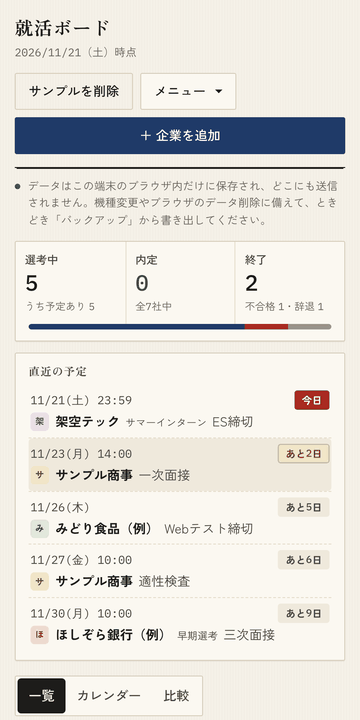
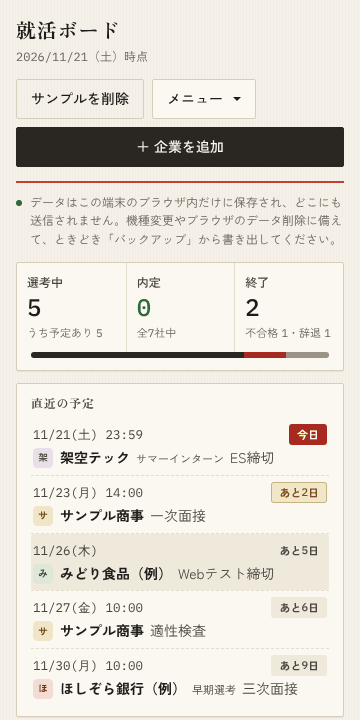
和風と洋風の見分けがつくように：和風は墨色のボタンと朱の線、洋風はえんじ色に

diff --git a/themes.css b/themes.css
@@ -33,7 +33,7 @@
 
 [data-theme-name="wa"]{
   --bg:#f5f1e8; --surface:#fbf8f1; --surface-2:#efe9dc; --surface-3:#e6dfcf; --ink:#1d1c1a; --ink-2:#4a463f;
-  --ink-3:#68625a; --line:#d6cdbb; --rule:#e5ddcc; --accent:#1f3a68; --accent-ink:#ffffff; --accent-soft:#dde3ee;
+  --ink-3:#68625a; --line:#d6cdbb; --rule:#e5ddcc; --accent:#2a2622; --accent-ink:#fbf8f1; --accent-soft:#e9e2d4;
   --danger:#a8291f; --danger-soft:#f5ddd7; --warn:#765400; --warn-soft:#f1e6c8; --ok:#2f6b3a; --ok-soft:#dce9d9;
   --muted:#9a9386; --muted-soft:#ece6da; --chip:#f3dcd3; --chip-ink:#862819; --focus:#c4402f; --shadow:0 1px 0 rgba(60,50,30,.06);
   --overlay:rgba(29,28,26,.5); --st-interest:#837d71; --st-entry:#3b5a8c; --st-es:#5b4f8a; --st-test:#2f6f6a; --st-gd:#8f630f;
@@ -58,15 +58,15 @@
   }
 }
 [data-theme-name="wa"] body{background-image:linear-gradient(90deg, rgba(120,100,60,.025) 1px, transparent 1px); background-size:3px 3px}
-[data-theme-name="wa"] .top{border-bottom-width:1px; box-shadow:0 3px 0 -2px var(--ink)}
+[data-theme-name="wa"] .top{border-bottom:2px solid var(--focus)}
 
 [data-theme-name="yo"]{
   --bg:#f6f1e4; --surface:#fffcf4; --surface-2:#f0e9d8; --surface-3:#e7dec8; --ink:#1b2130; --ink-2:#464b58;
-  --ink-3:#65676f; --line:#d8ceb6; --rule:#e7dfcb; --accent:#1d2f5e; --accent-ink:#ffffff; --accent-soft:#dde2ee;
-  --danger:#8c1d2c; --danger-soft:#f2dde0; --warn:#735510; --warn-soft:#f0e5c6; --ok:#2e5e3e; --ok-soft:#dbe7dc;
-  --muted:#9b9585; --muted-soft:#ede6d6; --chip:#efe0b8; --chip-ink:#634a10; --focus:#1d2f5e; --shadow:0 1px 0 rgba(40,30,10,.05), 0 2px 6px rgba(40,30,10,.06);
+  --ink-3:#65676f; --line:#d8ceb6; --rule:#e7dfcb; --accent:#7a1f33; --accent-ink:#fffcf4; --accent-soft:#f1dde2;
+  --danger:#b3261e; --danger-soft:#f6dcd8; --warn:#735510; --warn-soft:#f0e5c6; --ok:#2e5e3e; --ok-soft:#dbe7dc;
+  --muted:#9b9585; --muted-soft:#ede6d6; --chip:#efe0b8; --chip-ink:#634a10; --focus:#7a1f33; --shadow:0 1px 0 rgba(40,30,10,.05), 0 2px 6px rgba(40,30,10,.06);
   --overlay:rgba(27,33,48,.5); --st-interest:#807a6d; --st-entry:#2c4a86; --st-es:#5a4b86; --st-test:#2f6a6a; --st-gd:#8c6a12;
-  --st-interview2:#a04f27; --st-final:#6b2f55; --st-offer:#2e5e3e; --st-rejected:#8c1d2c; --st-declined:#807a6d; --mg0-b:#dfe3ef;
+  --st-interview2:#a04f27; --st-final:#6b2f55; --st-offer:#2e5e3e; --st-rejected:#b3261e; --st-declined:#807a6d; --mg0-b:#dfe3ef;
   --mg0-i:#1d2f5e; --mg1-b:#dde8de; --mg1-i:#2e5e3e; --mg2-b:#f0e5c6; --mg2-i:#634a10; --mg3-b:#e9e0ea;
   --mg3-i:#5a3756; --mg4-b:#f2dde0; --mg4-i:#8c1d2c; --mg5-b:#dbe7e7; --mg5-i:#26575a; --step-off:#ebe3d0;
   --step-off-ink:#6f6a5c;

diff --git a/js/themes.js b/js/themes.js
@@ -3,8 +3,8 @@
 export const THEMES = Object.freeze([
   { id: "standard", label: "標準", note: "落ち着いた手帳風。いつもの見た目です" },
   { id: "pop", label: "ポップ", note: "やわらかいパステルと丸い字体" },
-  { id: "wa", label: "和風", note: "和紙の白と藍・朱、見出しは明朝" },
-  { id: "yo", label: "洋風", note: "アイボリーと紺・えんじ、セリフ体" },
+  { id: "wa", label: "和風", note: "和紙の白に墨と朱、見出しは明朝" },
+  { id: "yo", label: "洋風", note: "アイボリーにえんじ、セリフ体" },
   { id: "sf", label: "SF", note: "暗い宇宙とネオン、ドットと等幅の数字" },
 ].map(Object.freeze));
 export const THEME_IDS = THEMES.map((t) => t.id);
